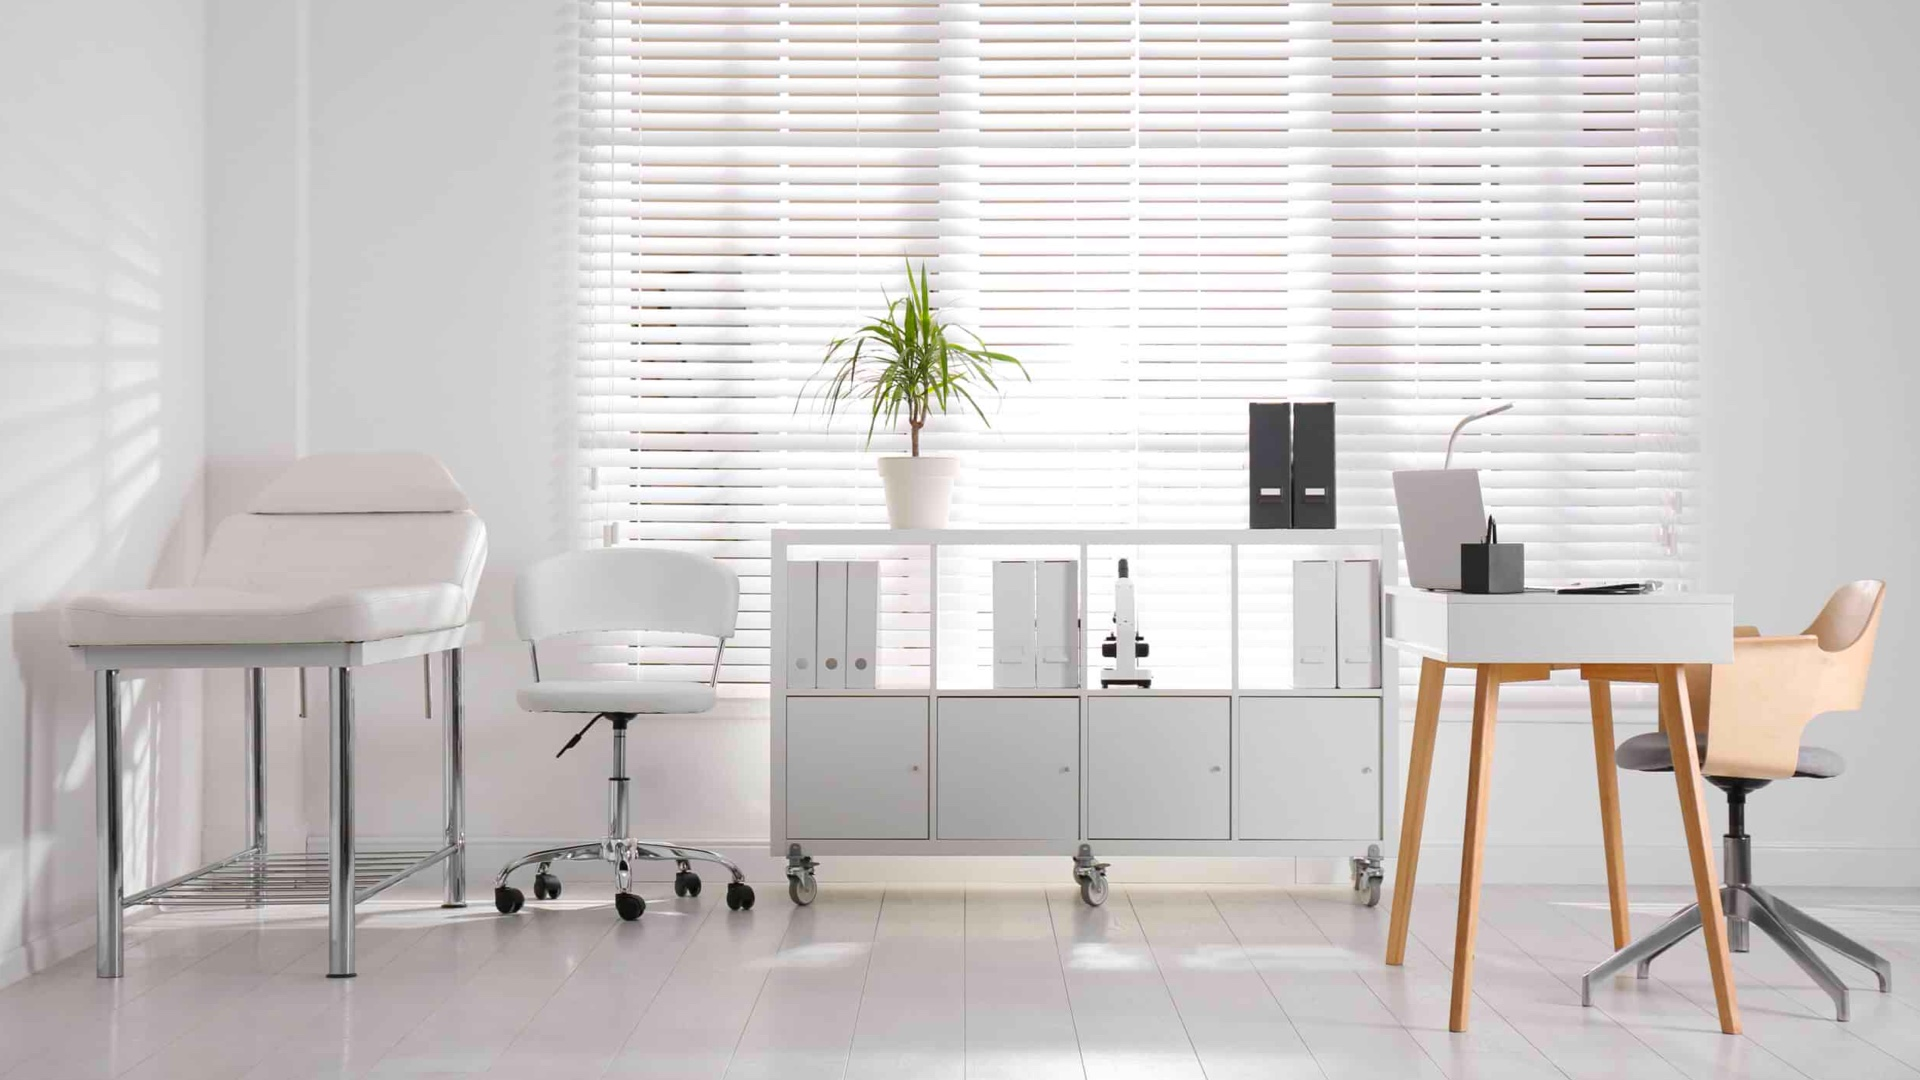
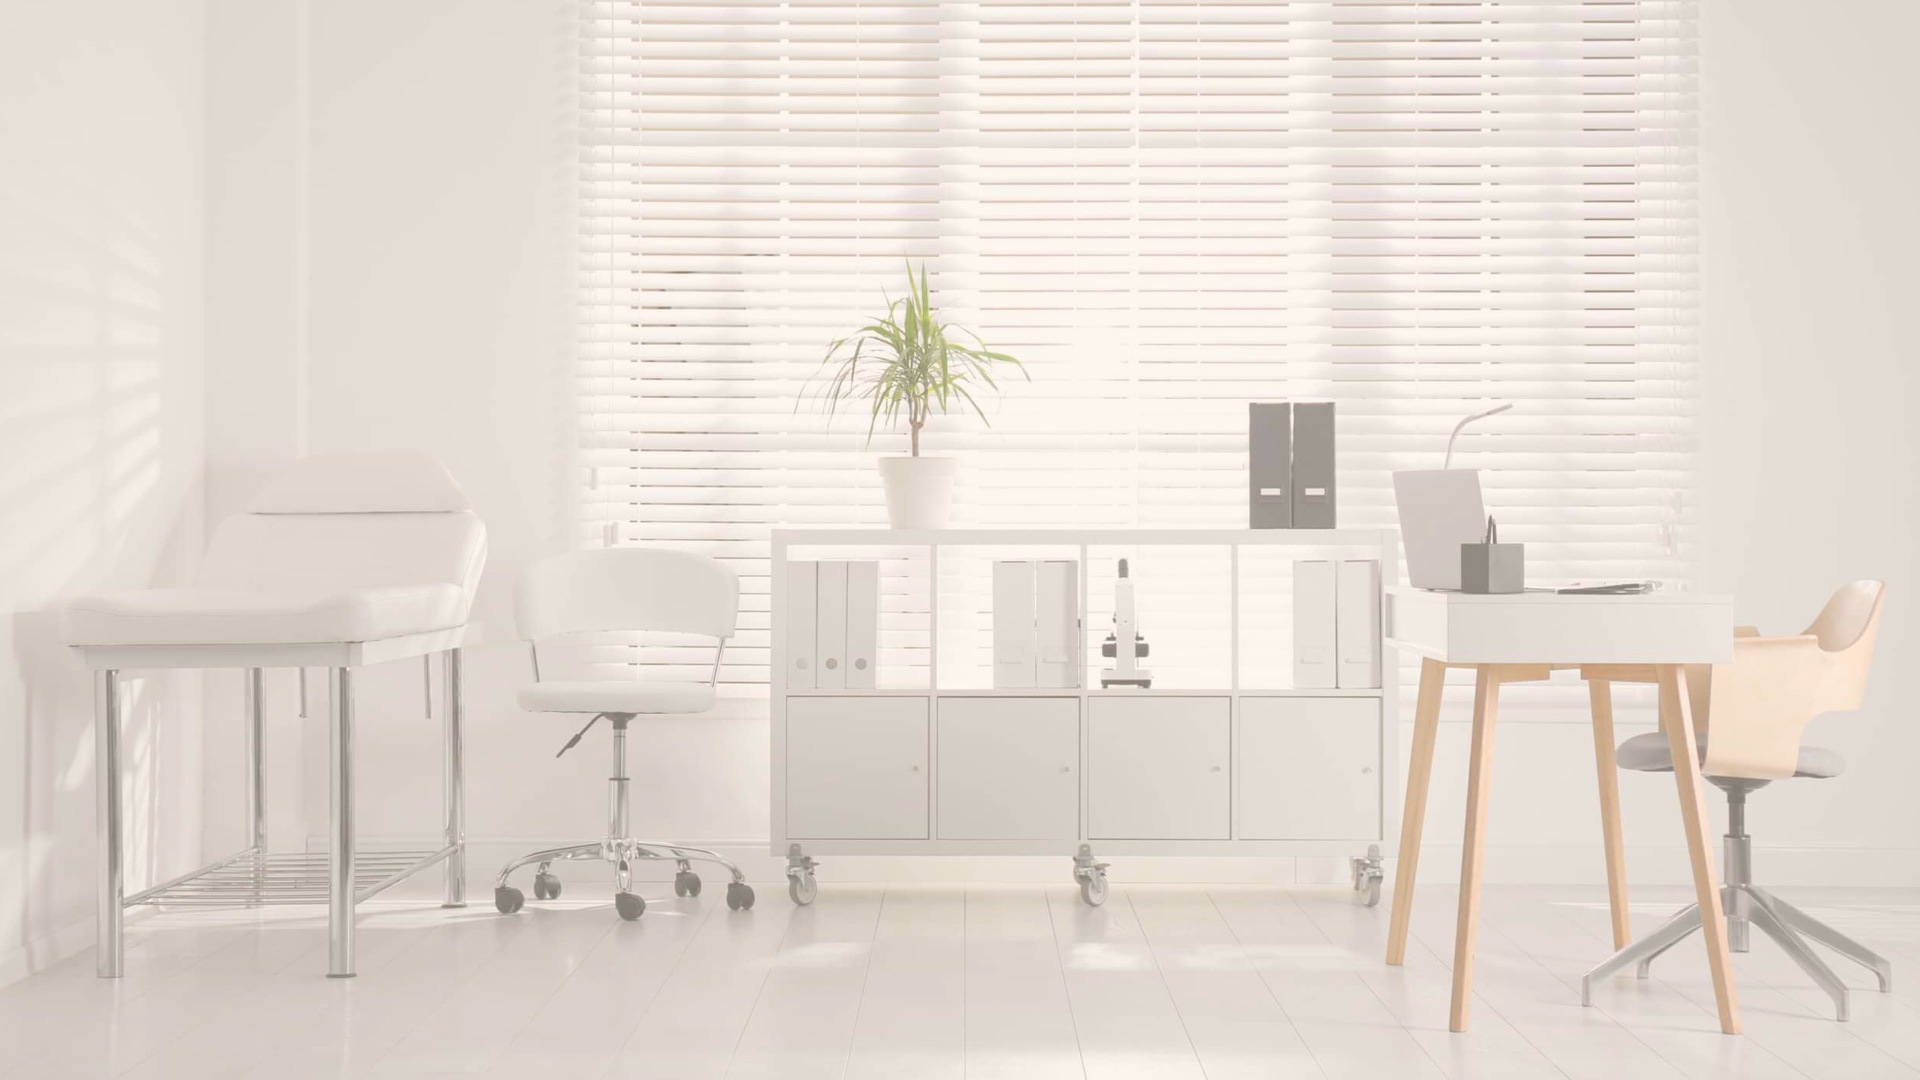
improves hero section

diff --git a/app/HeroSection.tsx b/app/HeroSection.tsx
@@ -1,33 +1,98 @@
 "use client"
-  
-  export default function HeroSection(params: {title: string, description: string}) {
-    return (
-      <div className="relative isolate overflow-hidden pt-14 bg-fixed bg-cover relative" style={{ backgroundImage: 'url("/images/clinic/clinic-new.jpeg")', position: 'relative' }}>
-      <div className="absolute inset-x-0 -top-40 -z-10 transform-gpu overflow-hidden blur-3xl sm:-top-80">
-      </div>
+
+import React, { useEffect, useRef } from 'react';
+import './styles.css';
+
+const BackgroundSection = () => {
+  const bgSectionRef = useRef(null);
+
+  useEffect(() => {
+    const bgSection = bgSectionRef.current;
+    const bgUrl = bgSection.getAttribute('data-bg-url');
+
+    if (bgUrl) {
+      const setParallaxEffect = () => {
+        if (bgSection) {
+          const offset = window.scrollY;
+          bgSection.style.backgroundPositionY = `${offset * 0.1}px`; // Adjust multiplier for parallax effect
+        }
+      };
+
+      const observer = new IntersectionObserver((entries) => {
+        entries.forEach((entry) => {
+          if (entry.isIntersecting) {
+            const img = new Image();
+            img.src = bgUrl;
+            img.onload = () => {
+              if (bgSection) {
+                bgSection.style.backgroundImage = `url(${img.src})`;
+                setParallaxEffect(); // Set initial position
+                window.addEventListener('scroll', setParallaxEffect);
+              }
+            };
+            observer.unobserve(bgSection);
+          }
+        });
+      });
+
+      observer.observe(bgSection);
+
+      return () => {
+        window.removeEventListener('scroll', setParallaxEffect);
+        observer.disconnect();
+      };
+    }
+  }, []);
+
+  return (
+    <div
+      ref={bgSectionRef}
+      className="backgroundSection relative isolate"
+      data-bg-url="/images/clinic/clinic-new.jpeg"
+    >
       <div className="mx-auto max-w-2xl py-32 sm:py-48 lg:py-56 relative">
         <div className="text-center drop-shadow-2xl relative z-10">
           <h1 className="text-4xl font-regular tracking-tight font-serif text-primary sm:text-6xl">
-            {params.title}
+            PRAXIS JONA
           </h1>
           <h2 className="mt-6 text-2xl font-medium leading-8 text-primary">
-            {params.description}
+            Ganzheitliche Betreuung für ein gesundes Leben – Bei uns bist Du mehr als nur ein weiterer Patient
           </h2>
         </div>
       </div>
-      <style jsx>{`
-        .bg-overlay {
-          position: absolute;
-          top: 0;
-          left: 0;
-          width: 100%;
-          height: 100%;
-          background-color: rgba(249, 237, 223, 0.5); /* Beige with 50% opacity */
-          z-index: 1;
-        }
-      `}</style>
-      <div className="bg-overlay"></div>
     </div>
-    )
-  }
-  
+  );
+};
+
+export default BackgroundSection;
+
+// export default function HeroSection(params: {title: string, description: string}) {
+//   return (
+//     <div className="relative isolate overflow-hidden pt-14 bg-fixed bg-cover" style={{ backgroundImage: 'url("/images/clinic/clinic-new.jpeg")', position: 'relative'}}>
+//     {/* <div className="absolute inset-x-0 -top-40 -z-10 overflow-hidden blur-3xl sm:-top-80">
+//     </div> */}
+//     <div className="mx-auto max-w-2xl py-32 sm:py-48 lg:py-56 relative">
+//       <div className="text-center drop-shadow-2xl relative z-10">
+//         <h1 className="text-4xl font-regular tracking-tight font-serif text-primary sm:text-6xl">
+//           {params.title}
+//         </h1>
+//         <h2 className="mt-6 text-2xl font-medium leading-8 text-primary">
+//           {params.description}
+//         </h2>
+//       </div>
+//     </div>
+//     <style jsx>{`
+//       .bg-overlay {
+//         position: absolute;
+//         top: 0;
+//         left: 0;
+//         width: 100%;
+//         height: 100%;
+//         background-color: rgba(249, 237, 223, 0.5); /* Beige with 50% opacity */
+//         z-index: 1;
+//       }
+//     `}</style>
+//     <div className="bg-overlay"></div>
+//   </div>
+//   )
+// }

diff --git a/app/QuoteSection.tsx b/app/QuoteSection.tsx
@@ -1,6 +1,6 @@
 export default function QuoteSection(params: {quote: string}) {
     return (
-      <section className="relative isolate overflow-hidden bg-white px-6 pb-16 sm:pt-24 lg:px-8">
+      <section className="relative isolate overflow-hidden bg-white px-6 pb-16 pt-16 sm:pt-24 lg:px-8">
         <div className="absolute inset-0 -z-10 bg-[radial-gradient(45rem_50rem_at_top,theme(colors.indigo.100),white)] opacity-20" />
         <div className="absolute inset-y-0 right-1/2 -z-10 mr-16 w-[200%] origin-bottom-left skew-x-[-30deg] bg-white shadow-xl shadow-indigo-600/10 ring-1 ring-indigo-50 sm:mr-28 lg:mr-0 xl:mr-16 xl:origin-center" />
         <div className="mx-auto max-w-2xl lg:max-w-4xl">

diff --git a/app/styles.css b/app/styles.css
@@ -1,0 +1,10 @@
+/* styles.css */
+.backgroundSection {
+    position: relative;
+    overflow: hidden;
+    padding-top: 14px;
+    background-size: cover;
+    background-position: center 0; /* Ensure initial position is set */
+    background-image: url('/images/clinic/clinic-new.jpeg');
+    transition: background-image 0.5s ease-in-out, background-position 0.1s ease-in-out; /* Smooth transition for background position */
+  }

diff --git a/app/page.tsx b/app/page.tsx
@@ -16,9 +16,7 @@ export const metadata: Metadata = {
 export default function Features() {
     return (
         <>
-            <HeroSection 
-            title="PRAXIS JONA"
-            description="Ganzheitliche Betreuung für ein gesundes Leben – Bei uns bist Du mehr als nur ein weiterer Patient"
+            <HeroSection
             />
 
             <QuoteSection
